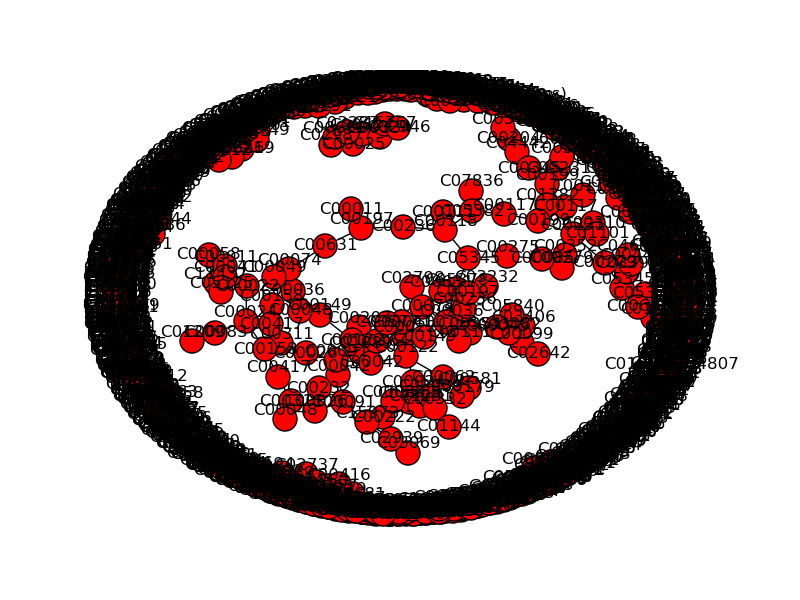
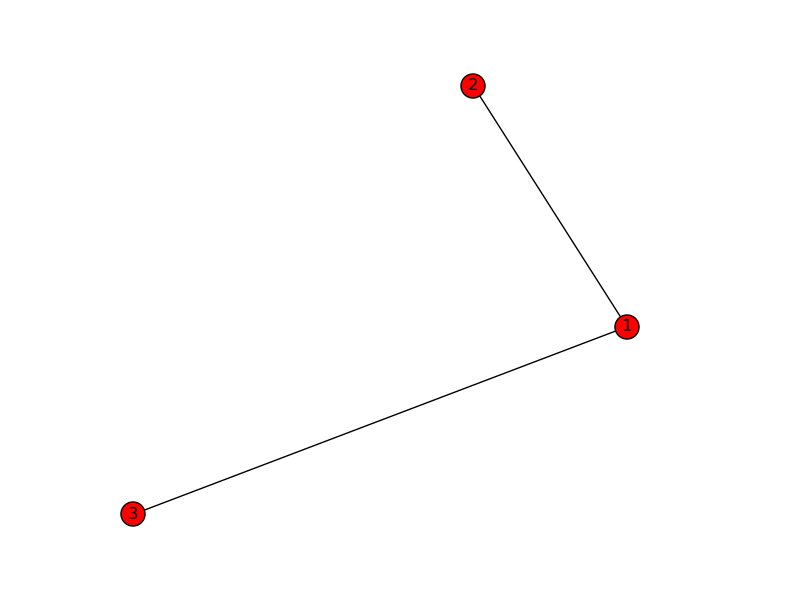
change combination of compound

diff --git a/enzyme_method.py b/enzyme_method.py
@@ -65,7 +65,37 @@ def find_related_reaction(enzyme):
 				reac = tmp[1].split(" ")
 				for x in reac:
 					res.append(x)
+		print res
 		return res
+
+def find_related_equation(enzyme):
+        url = "http://rest.kegg.jp/get/%s/"%enzyme
+        res = []
+
+        try:
+                htmldata = urllib2.urlopen(url)
+        except:
+                res.append('')
+                return res
+
+        else:
+                tmp = unicode(htmldata.read(),"utf-8")
+                htmldata.close()
+                lines = tmp.split("\n")
+                for x in lines:
+                        if x.find("REACTION") != -1:
+                                tmp = x.split("    ")
+                                reac = tmp[1].split("=")
+                                for x in reac:
+                                        rea = x.split("+")
+					for y in rea:
+						if y.find("[RN") != -1:
+							tmp = y.split(" ")
+							tmp1 = y.strip(tmp[-1])
+							res.append(tmp1.strip())
+						else:
+							res.append(y.strip())
+                return res
 
 def get_reaction_compound(reaction):
         url = "http://rest.kegg.jp/get/%s"%reaction.strip()
@@ -105,10 +135,31 @@ def extract_alphabet_from_gene(gene):
 		if gene[i].isdigit() == True:
 			return gene[0:i]
 
+def combination_reaction(G,reaction,gene):
+	tmp = list(itertools.combinations(range(len(reaction)), 2))
+	for x in tmp:
+		G.add_edge(reaction[x[0]].strip('\n'),reaction[x[1]].strip('\n'),color=enzyme_foldchange(gene))
+	return G
+
+def check_reaction_compound(compound):
+	if compound.find("H2O") != -1:
+		return 1
+	if compound.find("CO2") != -1:
+		return 1
+	if compound.find("NH3") != -1:
+		return 1
+	if compound.find("H") != -1:
+		return 1
+	if not compound:
+		return 1
+	return 0
 if __name__ == "__main__":
-	print extract_alphabet_from_gene("Pdp2")
+	import itertools
+	import matplotlib.pyplot as plt
 
 	G = nx.Graph()
+	
+	##Read gene data
 	f = open("data/gene_foldchange.csv","r")
 	lines = f.readlines()
 	f.close()
@@ -120,15 +171,25 @@ if __name__ == "__main__":
 		f1.write(gene.strip())
 		f1.write("\t")
 		for x in tmp:
+			reaction = find_related_equation(x)
+			f1.write(x)
+			f1.write("\t")
 			print x
-			reaction = find_related_reaction(x)
 			for reac in reaction:
-				rpair = get_reaction_compound(reac)
-				if rpair != "None":	
-					f1.write(rpair[0])
+				if reac != "None":
+					f1.write(str(reac))
 					f1.write("\t")
-					f1.write(str(rpair[1]))
-					f1.write("\n")
-					G.add_edge(rpair[0].strip('\n'),rpair[1].strip('\n'),color=enzyme_foldchange(gene))
-
+					f1.write(str(reac))
+			if len(reaction) != 1:
+				combi = list(itertools.combinations(range(len(reaction)), 2))
+				for x in combi:
+					if check_reaction_compound(reaction[x[0]]) == 0 and check_reaction_compound(reaction[x[1]]) == 0:
+                				G.add_edge(reaction[x[0]].strip('\n'),reaction[x[1]].strip('\n'),color=enzyme_foldchange(gene))
+			f1.write("\n")
+	f1.close()
+	
 	print G.edges()
+	nx.draw(G)
+	plt.savefig("path.png")
+	nx.draw_graphviz(G)
+	nx.write_dot(G,'file.dot')
